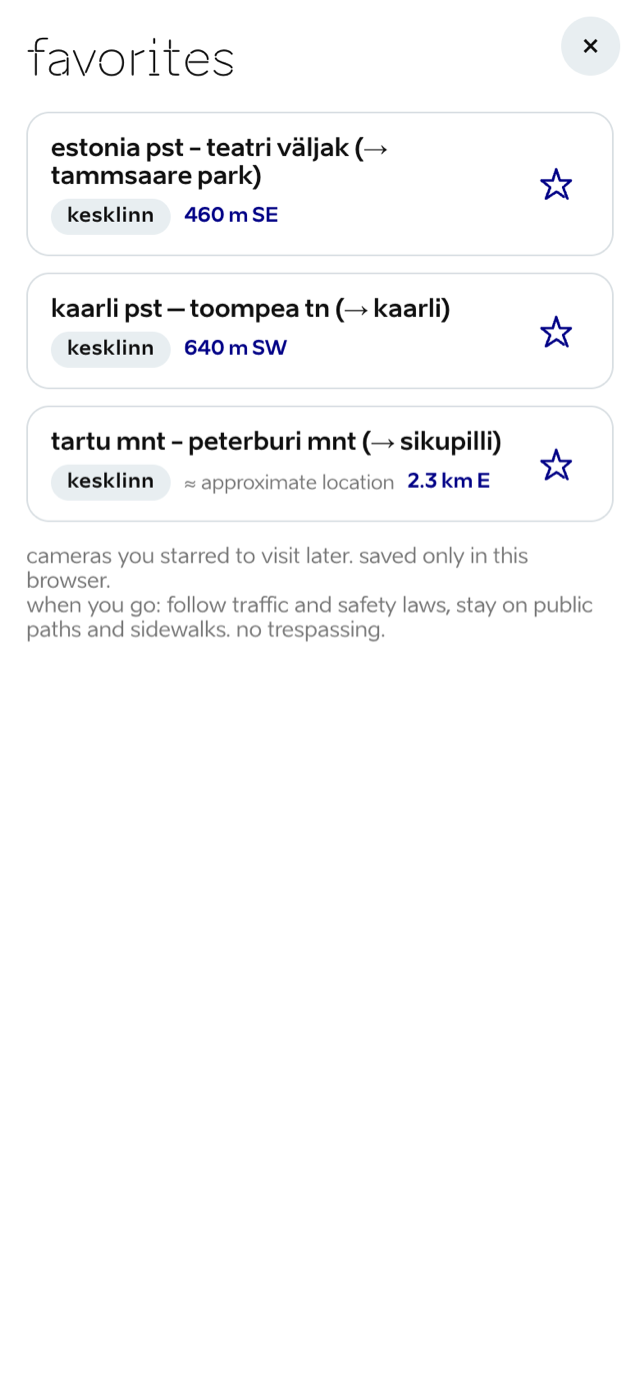
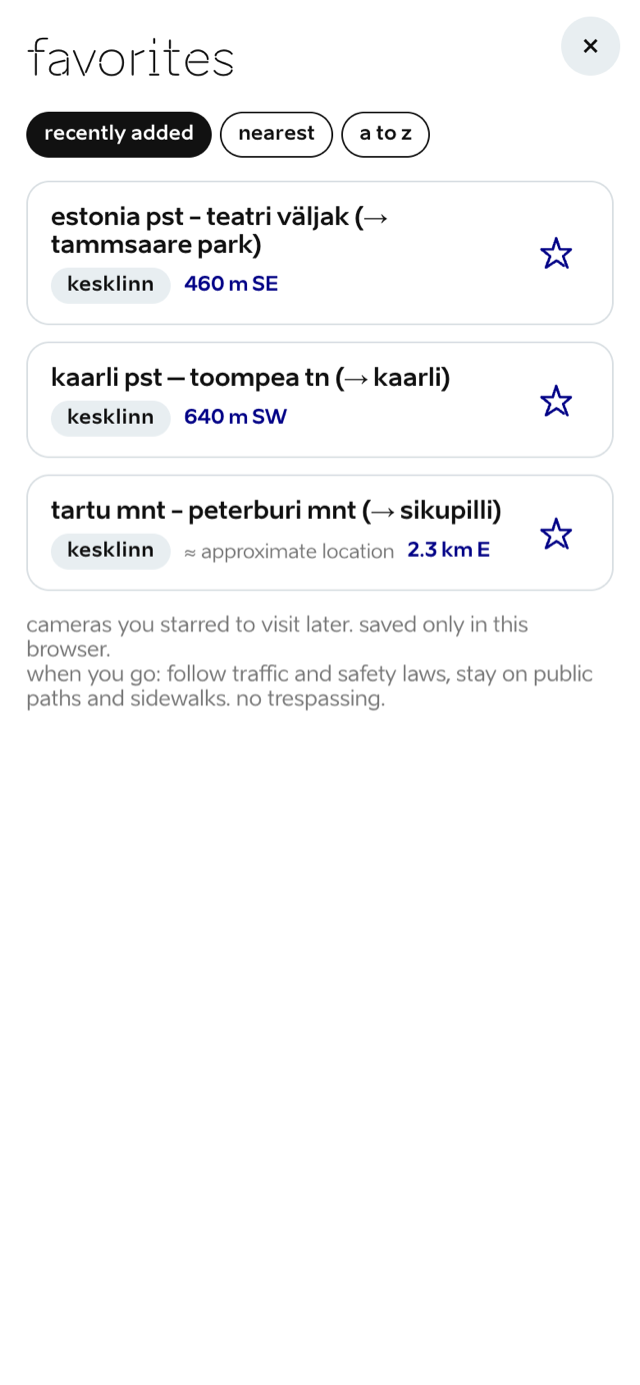
feat: add sorting to favorites view
added sorting to the favorites list view. recently added, nearest, and alphabetical

diff --git a/app/app.js b/app/app.js
@@ -387,10 +387,34 @@ function rowGoesTo(row, cam) {
   row.onkeydown = (e) => { if (e.key === "Enter" || e.key === " ") { e.preventDefault(); go(); } };
 }
 
+const FAVSORT_KEY = "tcs-favsort-v1";
+let favSort = (() => {
+  try { return sessionStorage.getItem(FAVSORT_KEY) || "added"; } catch (e) { return "added"; }
+})();
+
+function setFavSort(mode) {
+  if (mode === "near" && !state.user) {
+    toast("turn on location to sort by distance", 2600);
+    return;
+  }
+  favSort = mode;
+  try { sessionStorage.setItem(FAVSORT_KEY, mode); } catch (e) { /* fine */ }
+  renderFavs();
+}
+
 function renderFavs() {
   const list = $("favs-list");
   list.innerHTML = "";
+  /* sort chips: "nearest" needs a location; fall back to recently added */
+  const effective = favSort === "near" && !state.user ? "added" : favSort;
+  for (const b of document.querySelectorAll("#favs-sort .chip")) {
+    b.classList.toggle("on", b.dataset.sort === effective);
+    b.classList.toggle("dim", b.dataset.sort === "near" && !state.user);
+  }
   const cams = favs.map(id => state.cams.find(c => c.id === id)).filter(Boolean);
+  if (effective === "near") cams.sort((a, b) => haversine(state.user, a) - haversine(state.user, b));
+  else if (effective === "abc") cams.sort((a, b) => shortName(a).localeCompare(shortName(b), "et"));
+  /* "added" keeps the stored order: newest star first */
   if (!cams.length) {
     const p = document.createElement("p");
     p.className = "empty-note";
@@ -1022,6 +1046,7 @@ function onPosition(lat, lng, acc) {
   updateDistance();
   updateLine();
   updateListDists();
+  if (!$("favs").hidden) renderFavs(); // live distances and nearest-sort once located
 }
 
 function startLocating() {
@@ -1163,6 +1188,9 @@ function closeAway() {
 $("away-continue").onclick = closeAway;
 $("away").onclick = (e) => { if (e.target === $("away")) closeAway(); };
 $("nav-favs").onclick = () => { renderFavs(); $("favs").hidden = false; };
+document.querySelectorAll("#favs-sort .chip").forEach(b => {
+  b.onclick = () => setFavSort(b.dataset.sort);
+});
 $("favs-close").onclick = () => { $("favs").hidden = true; };
 $("nav-gallery").onclick = () => { renderGallery(); $("gallery").hidden = false; };
 $("gallery-close").onclick = () => { $("gallery").hidden = true; };

diff --git a/app/index.html b/app/index.html
@@ -266,6 +266,11 @@
 <div class="result" id="favs" hidden>
   <button class="sheet-close" id="favs-close" aria-label="Close">×</button>
   <h2 class="result-title">favorites</h2>
+  <div class="chips favs-sort" id="favs-sort" aria-label="Sort favorites">
+    <button class="chip" data-sort="added">recently added</button>
+    <button class="chip" data-sort="near">nearest</button>
+    <button class="chip" data-sort="abc">a to z</button>
+  </div>
   <div class="favs-list" id="favs-list"></div>
   <div class="result-note result-note-left">cameras you starred to visit later. saved only in this browser.<br>
   when you go: follow traffic and safety laws, stay on public paths and sidewalks. no trespassing.</div>

diff --git a/app/style.css b/app/style.css
@@ -451,6 +451,8 @@ body {
 }
 
 /* ---- favorites page ---- */
+.favs-sort { border-bottom: none; padding: 0 0 14px; flex: 0 0 auto; }
+.chip.dim { opacity: .45; }
 .favs-list { display: flex; flex-direction: column; gap: 10px; max-width: 640px; }
 .fav-row {
   display: flex; align-items: center; gap: 12px;

diff --git a/README.md b/README.md
@@ -67,9 +67,10 @@ Useful URL params: `?at=59.449,24.735` fakes your location (desktop testing),
 - **your photos**: gallery of every shot, grouped by camera, newest first;
   tap a camera's name to jump to it on the map.
 - **favorites**: star cameras into a visit-later list with district and
-  live distance; tap a row to open the camera. Favorited spots show as stars
-  on the map instead of dots (a multi-camera spot counts if any of its
-  cameras is starred).
+  live distance; tap a row to open the camera. Sortable by recently added,
+  nearest, or a to z (nearest needs location and says so). Favorited spots
+  show as stars on the map instead of dots (a multi-camera spot counts if
+  any of its cameras is starred).
 - **Safety copy**: photograph-yourself-only, traffic-law, and no-trespassing
   disclaimers on the camera sheet, the favorites page, the countdown, and in
   about & privacy. UI icons come from the Brand Estonia icon set.
